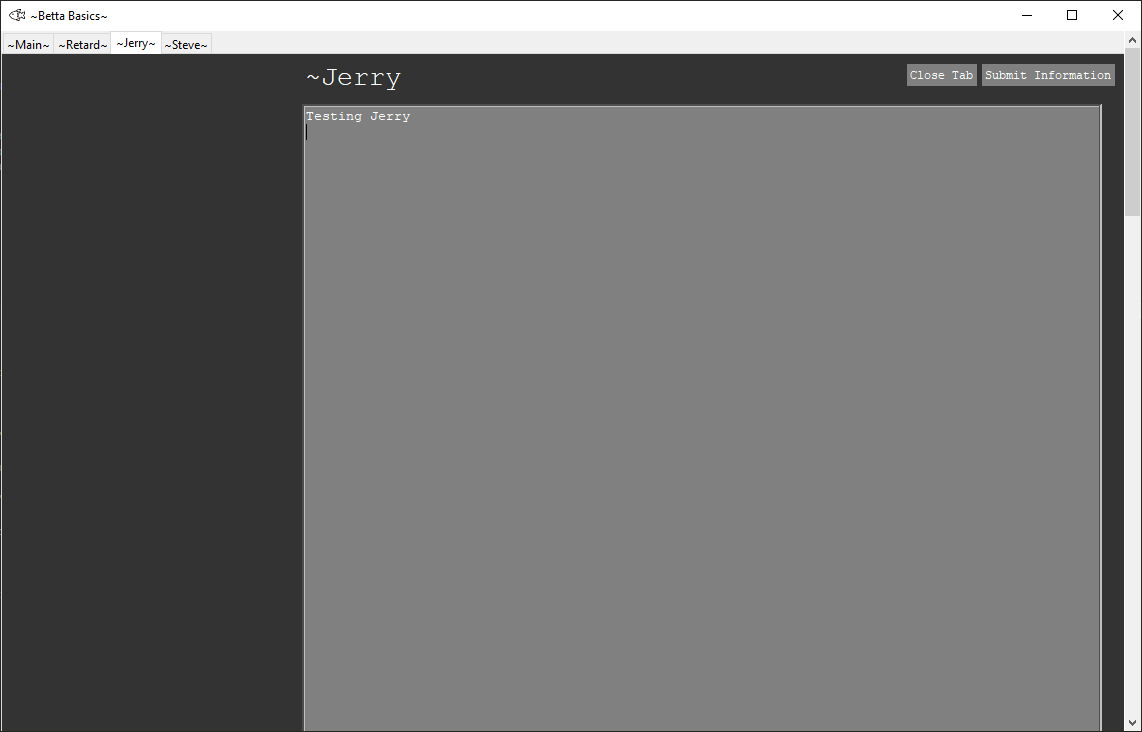
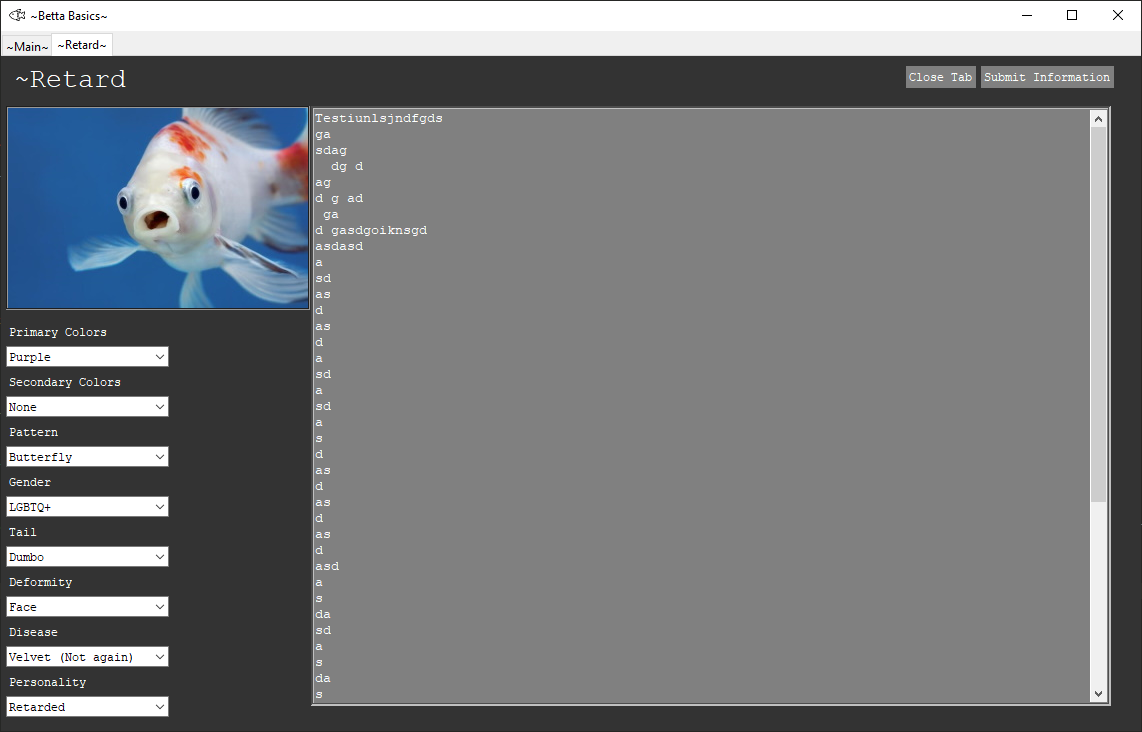
Updated GUI

Changed region(s): [[0.0, 0.0301, 1.0, 1.0], [0.0, 0.4508, 0.1532, 0.9918]]

diff --git a/src/main.py b/src/main.py
@@ -55,6 +55,8 @@ def playSounds(sound, volume):
 def openFishInfo(name, image):
     file_text = NONE
 
+    backend_canvas.yview_moveto(0)
+
     playSounds("res/sounds/bubble-pop.mp3", 0.1)
 
     new_fish_tab = Frame(notebook, bg="#333333", name=name.lower(), borderwidth=0)
@@ -187,6 +189,9 @@ def addFish(fish_name, image):
     info_button = Button(frame1, text=f"{fish_name}'s Info", name=fish_name.lower(), background="gray", foreground="white", borderwidth=0, font=courier_new3, command=lambda: openFishInfo(info_button._name[0].upper() + info_button._name[1:], image_url))
     info_button.place(x=x + 2, y=y + 205)
 
+    delete_button = Button(frame1, text=f"Delete", background="gray", foreground="red", borderwidth=0, font=courier_new3, command=None)
+    delete_button.place(x=x + 238, y=y + 205)
+
     x += 360
     if (x >= mainWidth - 25):
         x = 50
@@ -228,7 +233,7 @@ def render():
     frontend_frame = Frame(backend_canvas)
 
     backend_canvas.bind('<Configure>', lambda e: backend_canvas.configure(scrollregion=backend_canvas.bbox("all")))
-    backend_canvas.create_window((0, 0), window=frontend_frame, anchor="nw", width=1142, height=3000)
+    backend_canvas.create_window((-1, 0), window=frontend_frame, anchor="nw", width=1144, height=3000)
 
     notebook = ttk.Notebook(frontend_frame)
     notebook.pack(fill=BOTH, expand=1)
@@ -238,7 +243,7 @@ def render():
 
     notebook.add(frame1, text="~Main~")
 
-    full_scrollbar = Scrollbar(backend_frame) #, orient=VERTICAL, command=backend_canvas.yview
+    full_scrollbar = Scrollbar(backend_frame)
     #full_scrollbar.pack(side=RIGHT, fill=Y)
     backend_canvas.configure(yscrollcommand=full_scrollbar.set)
     full_scrollbar.configure(command=backend_canvas.yview)
